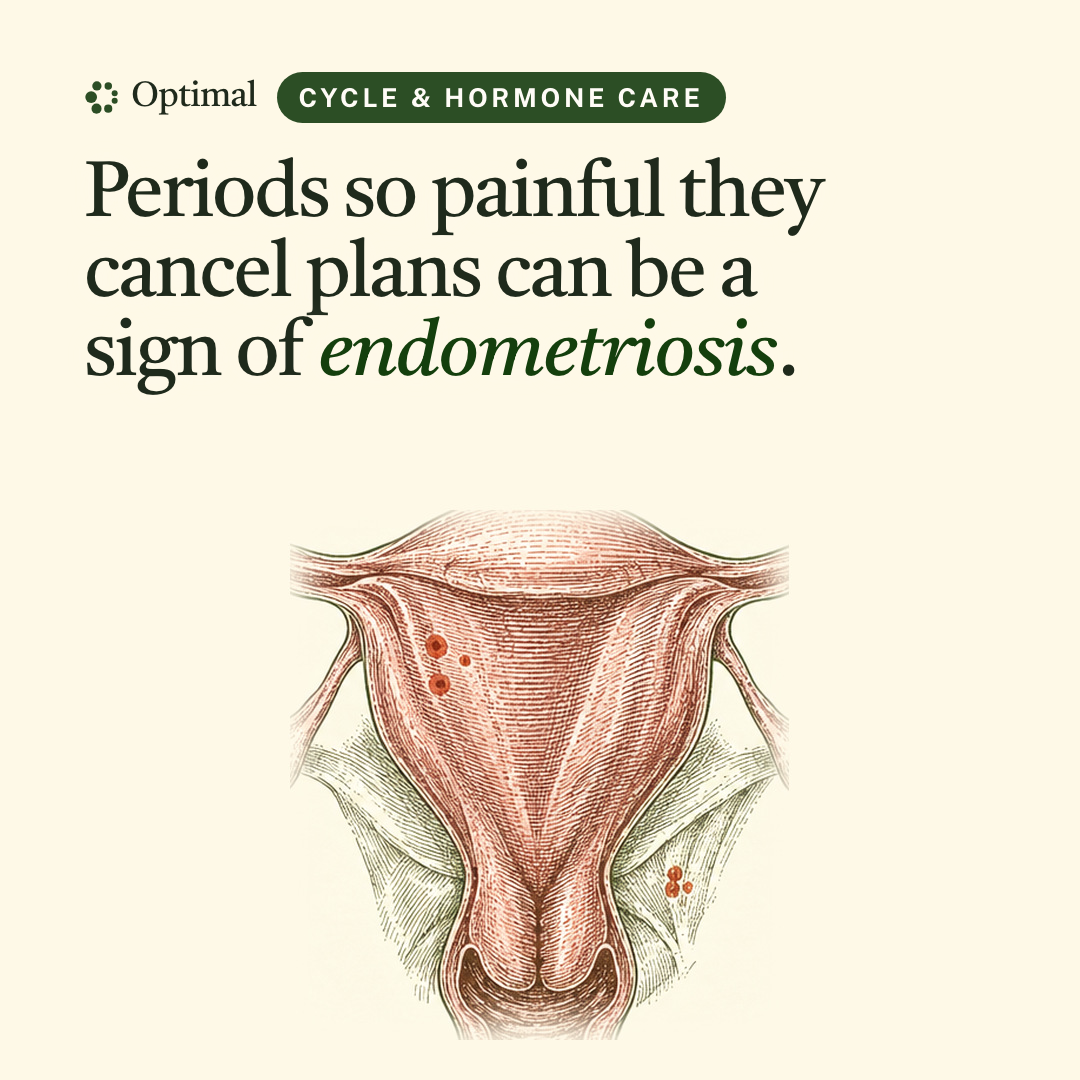
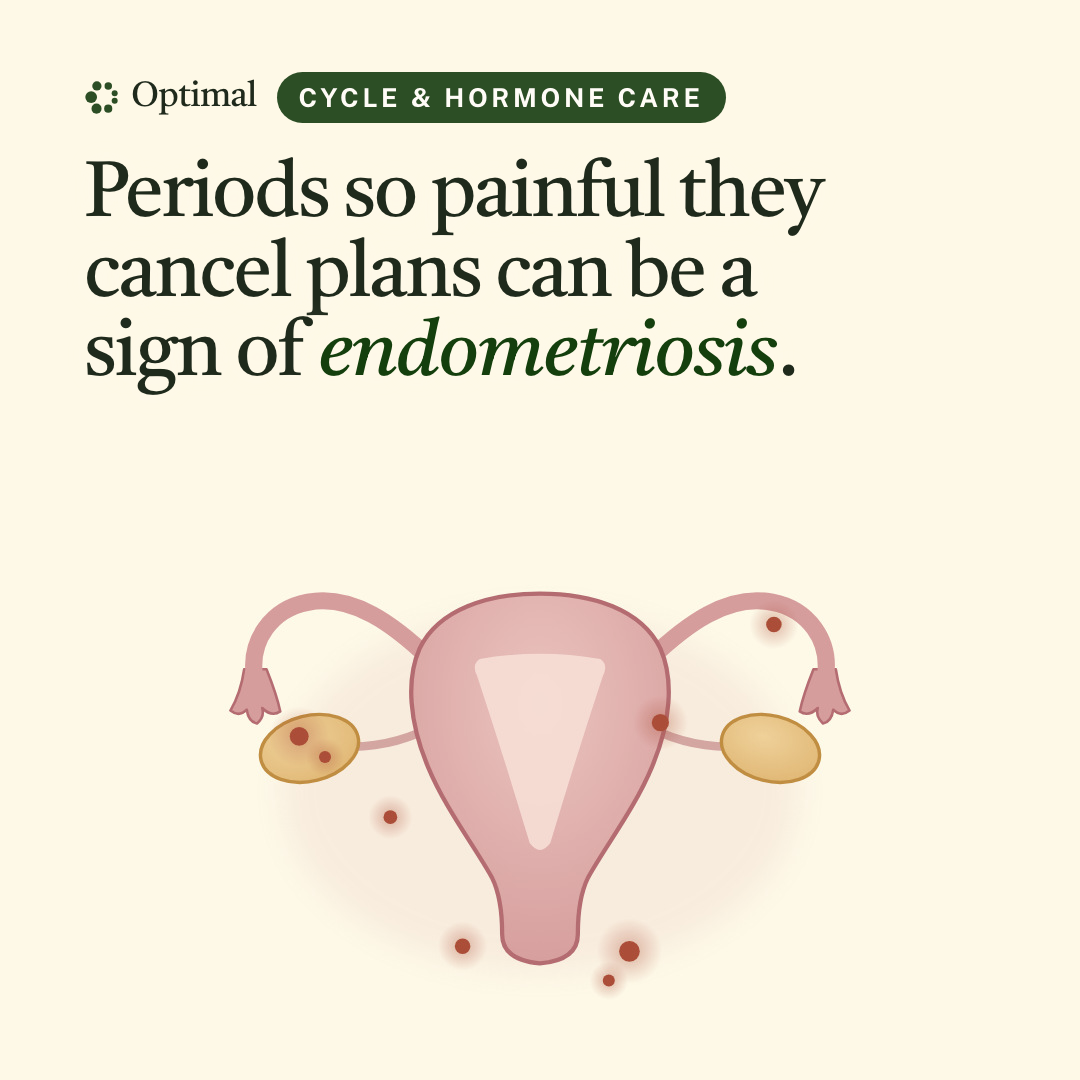
Hand-off: CE1 redrawn (zoomed out, simplified uterus)
Peter, Oct 29: the old CE1 crop was too zoomed in and anatomically
graphic. The card now shows the drawn version in all three ratios, with
an "Updated today" stamp.

Changed region(s): [[0.2139, 0.4583, 0.7944, 0.9778]]

diff --git a/index.html b/index.html
@@ -1058,11 +1058,11 @@ Book a free intro call with Cheryl, our care coordinator, to see if it&#x27;s a 
           <details class="more"><summary>Copy to paste</summary><div class="field"><div class="flabel">Headline<button class="copy" data-copy="There are options for PMDD">Copy</button></div><div class="val">There are options for PMDD</div></div><div class="field"><div class="flabel">Description<button class="copy" data-copy="NP-led · Barrie · No referral">Copy</button></div><div class="val">NP-led · Barrie · No referral</div></div><div class="field"><div class="flabel">Primary text<button class="copy" data-copy="PMDD is more than bad PMS, and there are options. We confirm the pattern with daily tracking, then your nurse practitioner builds a plan with you, from sleep and stress support to hormonal options or medication when it helps. Start with the free 3-minute Cycle Check.">Copy</button></div><textarea readonly rows="4">PMDD is more than bad PMS, and there are options. We confirm the pattern with daily tracking, then your nurse practitioner builds a plan with you, from sleep and stress support to hormonal options or medication when it helps. Start with the free 3-minute Cycle Check.</textarea></div></details>
         </div>
       </article>
-      <article class="card tile" id="CE1">
+      <article class="card tile isnew" id="CE1">
         <img src="static-ads/r9/thumbs/CE1.jpg" alt="CE1" loading="lazy">
-        <div class="tbody"><div class="khead"><span class="kcode">CE1</span><span class=kmeta>Single image ad · Endometriosis · Set 2 · endometriosis</span></div><h4>Periods so painful they cancel plans can be a sign of endometriosis.</h4>
+        <div class="tbody"><div class="khead"><span class="kcode">CE1</span><span class=kmeta>Single image ad · Endometriosis · Set 2 · endometriosis</span></div><h4>Periods so painful they cancel plans can be a sign of endometriosis.</h4><span class="stamp new">Updated today · redrawn: the whole uterus, simplified</span>
           <div class="track" data-codes="CE1"></div>
-          <div class="dls"><a class="dl primary" href="static-ads/r9/CE1_1x1.png" download><span>1:1</span><em>693 KB</em></a><a class="dl" href="static-ads/r9/CE1_9x16.png" download><span>9:16</span><em>693 KB</em></a><a class="dl" href="static-ads/r9/CE1_1-91x1.png" download><span>1.91:1</span><em>2 MB</em></a></div>
+          <div class="dls"><a class="dl primary" href="static-ads/r9/CE1_1x1.png" download><span>1:1</span><em>257 KB</em></a><a class="dl" href="static-ads/r9/CE1_9x16.png" download><span>9:16</span><em>299 KB</em></a><a class="dl" href="static-ads/r9/CE1_1-91x1.png" download><span>1.91:1</span><em>243 KB</em></a></div>
           <details class="more"><summary>Copy to paste</summary><div class="field"><div class="flabel">Headline<button class="copy" data-copy="Painful periods deserve answers">Copy</button></div><div class="val">Painful periods deserve answers</div></div><div class="field"><div class="flabel">Description<button class="copy" data-copy="Free 3-min Cycle Check · Barrie">Copy</button></div><div class="val">Free 3-min Cycle Check · Barrie</div></div><div class="field"><div class="flabel">Primary text<button class="copy" data-copy="Periods so painful they cancel plans are common, but they can be a sign of endometriosis or adenomyosis, and they deserve a proper look. Our nurse practitioner assesses pain and bleeding, checks iron, and arranges imaging or a gynecology referral when it&#x27;s needed. Start with the free 3-minute Cycle Check.">Copy</button></div><textarea readonly rows="4">Periods so painful they cancel plans are common, but they can be a sign of endometriosis or adenomyosis, and they deserve a proper look. Our nurse practitioner assesses pain and bleeding, checks iron, and arranges imaging or a gynecology referral when it&#x27;s needed. Start with the free 3-minute Cycle Check.</textarea></div></details>
         </div>
       </article>
@@ -2337,7 +2337,7 @@ Educational content only. Not medical advice.
   </section>
 </main>
 
-<footer><div class="wrap">Optimal Health · 630 Huronia Rd, Unit 5, Barrie · <a href="https://github.com/Optimal-Research-Team/optimal-ad-handoff/releases/tag/2026-10-12" target="_blank" rel="noopener">All full-quality files</a> · Zips: <a href="https://github.com/Optimal-Research-Team/optimal-ad-handoff/releases/download/2026-10-12/Optimal-static-ads-round-1_2026-10-12.zip" download>Static round 1 · 20 MB</a> <a href="https://github.com/Optimal-Research-Team/optimal-ad-handoff/releases/download/2026-10-12/Optimal-static-ads-round-2_2026-10-12.zip" download>Static round 2 · 67 MB</a> <a href="https://github.com/Optimal-Research-Team/optimal-ad-handoff/releases/download/2026-10-12/Optimal-static-ads-round-3_2026-10-12.zip" download>Static round 3 · 20 MB</a> <a href="https://github.com/Optimal-Research-Team/optimal-ad-handoff/releases/download/2026-10-12/Optimal-IV-iron-ads_2026-10-12.zip" download>IV iron round 1 · 9 MB</a> <a href="https://github.com/Optimal-Research-Team/optimal-ad-handoff/releases/download/2026-10-12/Optimal-IV-iron-ads-round-2_2026-10-12.zip" download>IV iron round 2 · 24 MB</a> <a href="https://github.com/Optimal-Research-Team/optimal-ad-handoff/releases/download/2026-10-12/Optimal-cycle-hormone-statics_2026-10-12.zip" download>Cycle &amp; Hormone statics · 24 MB</a> · Questions: Peter.</div></footer>
+<footer><div class="wrap">Optimal Health · 630 Huronia Rd, Unit 5, Barrie · <a href="https://github.com/Optimal-Research-Team/optimal-ad-handoff/releases/tag/2026-10-12" target="_blank" rel="noopener">All full-quality files</a> · Zips: <a href="https://github.com/Optimal-Research-Team/optimal-ad-handoff/releases/download/2026-10-12/Optimal-static-ads-round-1_2026-10-12.zip" download>Static round 1 · 20 MB</a> <a href="https://github.com/Optimal-Research-Team/optimal-ad-handoff/releases/download/2026-10-12/Optimal-static-ads-round-2_2026-10-12.zip" download>Static round 2 · 67 MB</a> <a href="https://github.com/Optimal-Research-Team/optimal-ad-handoff/releases/download/2026-10-12/Optimal-static-ads-round-3_2026-10-12.zip" download>Static round 3 · 20 MB</a> <a href="https://github.com/Optimal-Research-Team/optimal-ad-handoff/releases/download/2026-10-12/Optimal-IV-iron-ads_2026-10-12.zip" download>IV iron round 1 · 9 MB</a> <a href="https://github.com/Optimal-Research-Team/optimal-ad-handoff/releases/download/2026-10-12/Optimal-IV-iron-ads-round-2_2026-10-12.zip" download>IV iron round 2 · 24 MB</a> <a href="https://github.com/Optimal-Research-Team/optimal-ad-handoff/releases/download/2026-10-12/Optimal-cycle-hormone-statics_2026-10-12.zip" download>Cycle &amp; Hormone statics · 21 MB</a> · Questions: Peter.</div></footer>
 </div></div>
 
 <script id="catalog" type="application/json">[{"code": "LV1-T", "line": "3 things to know before you book.", "svc": "longevity", "fmt": "Video ad", "anchor": "LV1", "thumb": "previews/LongevityCore_Tight_9x16.jpg", "plan": "Test now #1", "added": "2026-10-12", "kind": "ad", "organic_ok": true}, {"code": "MV1-T", "line": "“I just don’t feel like myself.”", "svc": "menopause", "fmt": "Video ad", "anchor": "MV1", "thumb": "previews/MenopauseMyself_Tight_9x16.jpg", "plan": "Test now #1", "added": "2026-10-12", "kind": "ad", "organic_ok": true}, {"code": "LV2-T", "line": "A full hour. Every year.", "svc": "longevity", "fmt": "Video ad", "anchor": "LV2", "thumb": "previews/LongevityFullHour_Tight_9x16.jpg", "plan": "Next up", "added": "2026-10-12", "kind": "ad", "organic_ok": true}, {"code": "MV2-T", "line": "Menopause affects nearly every system. (Tight cut)", "svc": "menopause", "fmt": "Video ad", "anchor": "MV2", "thumb": "previews/MenoTimeToTalk_Tight_9x16.jpg", "plan": "Chantelle videos set", "added": "2026-10-20", "kind": "ad", "organic_ok": true}, {"code": "MV2-F", "line": "Menopause affects nearly every system. (Flow cut)", "svc": "menopause", "fmt": "Video ad", "anchor": "MV2", "thumb": "previews/MenoTimeToTalk_Flow_9x16.jpg", "plan": "Next up", "added": "2026-10-20", "kind": "ad", "organic_ok": true}, {"code": "MV3-T", "line": "Patients tell me the same three things. (Tight cut)", "svc": "menopause", "fmt": "Video ad", "anchor": "MV3", "thumb": "previews/MenoThreeThings_Tight_9x16.jpg", "plan": "Chantelle videos set", "added": "2026-10-20", "kind": "ad", "organic_ok": true}, {"code": "MV3-F", "line": "Patients tell me the same three things. (Flow cut)", "svc": "menopause", "fmt": "Video ad", "anchor": "MV3", "thumb": "previews/MenoThreeThings_Flow_9x16.jpg", "plan": "Next up", "added": "2026-10-20", "kind": "ad", "organic_ok": true}, {"code": "MVSL", "line": "The menopause video sales letter (2:33).", "svc": "menopause", "fmt": "Video ad", "anchor": "MVSL", "thumb": "previews/MenoVSL_Main_9x16.jpg", "plan": "Chantelle videos set", "added": "2026-10-29", "kind": "ad", "organic_ok": true}, {"code": "LV3-T", "line": "An hour with an NP who listens.", "svc": "longevity", "fmt": "Video ad", "anchor": "LV3", "thumb": "previews/LongevityOptimize_Tight_9x16.jpg", "plan": "Twin of LV2-T", "added": "2026-10-15", "kind": "ad", "organic_ok": true}, {"code": "CV1-A", "line": "3 or more of these?", "svc": "cycle", "fmt": "Video ad", "anchor": "CV1", "thumb": "previews/CycleSigns_Ad_9x16.jpg", "plan": "Set 1 · general", "added": "2026-10-22", "kind": "ad", "organic_ok": true}, {"code": "CV2-A", "line": "“That’s just part of being a woman.”", "svc": "cycle", "fmt": "Video ad", "anchor": "CV2", "thumb": "previews/CycleToldNormal_Ad_9x16.jpg", "plan": "Set 1 · general", "added": "2026-10-22", "kind": "ad", "organic_ok": true}, {"code": "CV3-A", "line": "Hormone care isn’t just for menopause.", "svc": "cycle", "fmt": "Video ad", "anchor": "CV3", "thumb": "previews/CycleProgramIntro_Ad_9x16.jpg", "plan": "Set 1 · general", "added": "2026-10-22", "kind": "ad", "organic_ok": true}, {"code": "L1", "line": "One price. Everything included.", "svc": "longevity", "fmt": "Image ad", "anchor": "L1", "thumb": "static-ads/r1/thumbs/L1.jpg", "plan": "Test now #2", "added": "2026-10-12", "kind": "ad", "organic_ok": false}, {"code": "MB1", "line": "Wide awake at 3 a.m., again.", "svc": "menopause", "fmt": "Image ad", "anchor": "MB1", "thumb": "static-ads/r2/thumbs/MB1.jpg", "plan": "Test now #2", "added": "2026-10-12", "kind": "ad", "organic_ok": false}, {"code": "L2", "line": "Keep your family doctor", "svc": "longevity", "fmt": "Image ad", "anchor": "L2", "thumb": "static-ads/r1/thumbs/L2.jpg", "plan": "Test now #3", "added": "2026-10-12", "kind": "ad", "organic_ok": false}, {"code": "MB5", "line": "Menopause care without a referral or a family doctor.", "svc": "menopause", "fmt": "Image ad", "anchor": "MB5", "thumb": "static-ads/r2/thumbs/MB5.jpg", "plan": "Test now #3", "added": "2026-10-12", "kind": "ad", "organic_ok": false}, {"code": "LB1", "line": "Your own Nurse Practitioner in Barrie, with same or next-day visits.", "svc": "longevity", "fmt": "Image ad", "anchor": "LB1", "thumb": "static-ads/r2/thumbs/LB1.jpg", "plan": "Test now #4", "added": "2026-10-12", "kind": "ad", "organic_ok": false}, {"code": "MB2", "line": "Brain fog can be perimenopause, not just a busy life.", "svc": "menopause", "fmt": "Image ad", "anchor": "MB2", "thumb": "static-ads/r2/thumbs/MB2.jpg", "plan": "Test now #4", "added": "2026-10-12", "kind": "ad", "organic_ok": false}, {"code": "LB2", "line": "Sick today, seen tomorrow, by an NP who knows you.", "svc": "longevity", "fmt": "Image ad", "anchor": "LB2", "thumb": "static-ads/r2/thumbs/LB2.jpg", "plan": "Test now #5", "added": "2026-10-12", "kind": "ad", "organic_ok": false}, {"code": "LB3", "line": "Your muscle, measured every 90 days.", "svc": "longevity", "fmt": "Image ad", "anchor": "LB3", "thumb": "static-ads/r2/thumbs/LB3.jpg", "plan": "Test now #6", "added": "2026-10-12", "kind": "ad", "organic_ok": false}, {"code": "L6", "line": "OHIP still covers your labs", "svc": "longevity", "fmt": "Image ad", "anchor": "L6", "thumb": "static-ads/r1/thumbs/L6.jpg", "plan": "Next up", "added": "2026-10-12", "kind": "ad", "organic_ok": false}, {"code": "LA2", "line": "Normal is a range, and we look at where you sit in it.", "svc": "longevity", "fmt": "Image ad", "anchor": "LA2", "thumb": "static-ads/r3/thumbs/LA2.jpg", "plan": "Next up", "added": "2026-10-13", "kind": "ad", "organic_ok": false}, {"code": "LB4", "line": "Know exactly what to do for your health this year.", "svc": "longevity", "fmt": "Image ad", "anchor": "LB4", "thumb": "static-ads/r2/thumbs/LB4.jpg", "plan": "Next up", "added": "2026-10-12", "kind": "ad", "organic_ok": false}, {"code": "M1", "line": "Perimenopause is more than hot flashes", "svc": "menopause", "fmt": "Image ad", "anchor": "M1", "thumb": "static-ads/r1/thumbs/M1.jpg", "plan": "Next up", "added": "2026-10-12", "kind": "ad", "organic_ok": false}, {"code": "M2", "line": "60 minutes", "svc": "menopause", "fmt": "Image ad", "anchor": "M2", "thumb": "static-ads/r1/thumbs/M2.jpg", "plan": "Next up", "added": "2026-10-12", "kind": "ad", "organic_ok": false}, {"code": "MA1", "line": "Midlife is a stage, and stages can be planned for.", "svc": "menopause", "fmt": "Image ad", "anchor": "MA1", "thumb": "static-ads/r3/thumbs/MA1.jpg", "plan": "Next up", "added": "2026-10-13", "kind": "ad", "organic_ok": true, "seed": {"ig": "Posted", "ig_date": "Oct 23, 2026", "ig_link": "https://www.instagram.com/p/De2kqQAFkhP/"}}, {"code": "MB3", "line": "Start menopause care in Barrie within days.", "svc": "menopause", "fmt": "Image ad", "anchor": "MB3", "thumb": "static-ads/r2/thumbs/MB3.jpg", "plan": "Next up", "added": "2026-10-12", "kind": "ad", "organic_ok": false}, {"code": "MB4", "line": "Hot flashes don't wait, and neither should you.", "svc": "menopause", "fmt": "Image ad", "anchor": "MB4", "thumb": "static-ads/r2/thumbs/MB4.jpg", "plan": "Next up", "added": "2026-10-12", "kind": "ad", "organic_ok": false}, {"code": "L3", "line": "Unwell on Monday? Seen by Tuesday.", "svc": "longevity", "fmt": "Image ad", "anchor": "L3", "thumb": "static-ads/r1/thumbs/L3.jpg", "plan": "Twin of LB2", "added": "2026-10-12", "kind": "ad", "organic_ok": false}, {"code": "L4", "line": "See what's working, every 90 days", "svc": "longevity", "fmt": "Image ad", "anchor": "L4", "thumb": "static-ads/r1/thumbs/L4.jpg", "plan": "Twin of LB3", "added": "2026-10-12", "kind": "ad", "organic_ok": false}, {"code": "L5", "line": "An hour with your NP. Every year.", "svc": "longevity", "fmt": "Image ad", "anchor": "L5", "thumb": "static-ads/r1/thumbs/L5.jpg", "plan": "Twin of LV2-T", "added": "2026-10-12", "kind": "ad", "organic_ok": false}, {"code": "LA1", "line": "Your own Nurse Practitioner for about two toonies a day.", "svc": "longevity", "fmt": "Image ad", "anchor": "LA1", "thumb": "static-ads/r3/thumbs/LA1.jpg", "plan": "Twin of LB5", "added": "2026-10-13", "kind": "ad", "organic_ok": false}, {"code": "LB5", "line": "Your own Nurse Practitioner for about $4 a day.", "svc": "longevity", "fmt": "Image ad", "anchor": "LB5", "thumb": "static-ads/r2/thumbs/LB5.jpg", "plan": "Twin of L1", "added": "2026-10-12", "kind": "ad", "organic_ok": false}, {"code": "LB6", "line": "OHIP still covers your medically necessary labs.", "svc": "longevity", "fmt": "Image ad", "anchor": "LB6", "thumb": "static-ads/r2/thumbs/LB6.jpg", "plan": "Twin of L6", "added": "2026-10-12", "kind": "ad", "organic_ok": false}, {"code": "M3", "line": "No referral. No family doctor needed.", "svc": "menopause", "fmt": "Image ad", "anchor": "M3", "thumb": "static-ads/r1/thumbs/M3.jpg", "plan": "Twin of MB5", "added": "2026-10-12", "kind": "ad", "organic_ok": false}, {"code": "M4", "line": "3 a.m. Wide awake. Again.", "svc": "menopause", "fmt": "Image ad", "anchor": "M4", "thumb": "static-ads/r1/thumbs/M4.jpg", "plan": "Twin of MB1", "added": "2026-10-12", "kind": "ad", "organic_ok": false}, {"code": "MC", "line": "Carousel, 5 cards: Menopause care in Barrie starts with a free 15-minute call.", "svc": "menopause", "fmt": "Carousel ad", "anchor": "MC", "thumb": "static-ads/r2/thumbs/MC1.jpg", "plan": "Test now #5", "added": "2026-10-12", "kind": "ad", "organic_ok": false}, {"code": "LC", "line": "Carousel, 5 cards: Here's everything $1,495 a year gets you.", "svc": "longevity", "fmt": "Carousel ad", "anchor": "LC", "thumb": "static-ads/r2/thumbs/LC1.jpg", "plan": "Next up", "added": "2026-10-12", "kind": "ad", "organic_ok": false}, {"code": "IRV1", "line": "IV iron is coming to Barrie this November.", "svc": "iron", "fmt": "Video ad", "anchor": "IRV1", "thumb": "previews/iron/IRV1_9x16.jpg", "plan": "Run now", "added": "2026-10-14", "kind": "ad", "organic_ok": false}, {"code": "IRT1", "line": "Iron pills don't work for everyone.", "svc": "iron", "fmt": "Video ad", "anchor": "IRT1", "thumb": "previews/iron/IRT1_9x16.jpg", "plan": "Test · talking head", "added": "2026-10-20", "kind": "ad", "organic_ok": true, "seed": {"ig": "Posted", "ig_date": "Oct 20, 2026", "ig_link": "https://www.instagram.com/reel/DeuqtE3ux0g/"}}, {"code": "IRT2", "line": "Low iron doesn't always look like anemia.", "svc": "iron", "fmt": "Video ad", "anchor": "IRT2", "thumb": "previews/iron/IRT2_9x16.jpg", "plan": "Test · talking head", "added": "2026-10-20", "kind": "ad", "organic_ok": true, "seed": {"ig": "Posted", "ig_date": "Oct 21, 2026", "ig_link": "https://www.instagram.com/reel/DexHYHRuWz5/"}}, {"code": "IRT3", "line": "Three things most people don't know about IV iron.", "svc": "iron", "fmt": "Video ad", "anchor": "IRT3", "thumb": "previews/iron/IRT3_9x16.jpg", "plan": "Test · talking head", "added": "2026-10-20", "kind": "ad", "organic_ok": true, "seed": {"ig": "Posted", "ig_date": "Oct 21, 2026", "ig_link": "https://www.instagram.com/reel/DexIED5u8No/"}}, {"code": "IRT4", "line": "Here's what getting IV iron actually looks like.", "svc": "iron", "fmt": "Video ad", "anchor": "IRT4", "thumb": "previews/iron/IRT4_9x16.jpg", "plan": "Test · talking head", "added": "2026-10-20", "kind": "ad", "organic_ok": true, "seed": {"ig": "Posted", "ig_date": "Oct 21, 2026", "ig_link": "https://www.instagram.com/reel/DexI9NouTrG/"}}, {"code": "IRV2", "line": "Our clinic", "svc": "iron", "fmt": "Video ad", "anchor": "IRV2", "thumb": "previews/iron/IRV2_9x16.jpg", "plan": "Test · film", "added": "2026-10-19", "kind": "ad", "organic_ok": false}, {"code": "IRV3", "line": "A little at a time", "svc": "iron", "fmt": "Video ad", "anchor": "IRV3", "thumb": "previews/iron/IRV3_9x16.jpg", "plan": "Test · film", "added": "2026-10-19", "kind": "ad", "organic_ok": false}, {"code": "IRM1", "line": "A little at a time, or as little as one visit", "svc": "iron", "fmt": "Video ad", "anchor": "IRM1", "thumb": "previews/iron/IRM1_9x16.jpg", "plan": "Test · motion", "added": "2026-10-19", "kind": "ad", "organic_ok": false}, {"code": "IRM2", "line": "What you get, start to finish.", "svc": "iron", "fmt": "Video ad", "anchor": "IRM2", "thumb": "previews/iron/IRM2_9x16.jpg", "plan": "Test · offer", "added": "2026-10-19", "kind": "ad", "organic_ok": false}, {"code": "IR1", "line": "Iron pills not working? IV iron skips the gut.", "svc": "iron", "fmt": "Image ad", "anchor": "IR1", "thumb": "static-ads/r4/thumbs/IR1.jpg", "plan": "Run now", "added": "2026-10-14", "kind": "ad", "organic_ok": false}, {"code": "IR2", "line": "Low iron doesn't always look like anemia.", "svc": "iron", "fmt": "Image ad", "anchor": "IR2", "thumb": "static-ads/r4/thumbs/IR2.jpg", "plan": "Run now", "added": "2026-10-14", "kind": "ad", "organic_ok": false}, {"code": "IR4", "line": "IV iron can refill iron stores in as little as one visit.", "svc": "iron", "fmt": "Image ad", "anchor": "IR4", "thumb": "static-ads/r5/thumbs/IR4.jpg", "plan": "Test · time", "added": "2026-10-19", "kind": "ad", "organic_ok": false}, {"code": "IR5", "line": "IV iron in Barrie, with no referral needed.", "svc": "iron", "fmt": "Image ad", "anchor": "IR5", "thumb": "static-ads/r5/thumbs/IR5.jpg", "plan": "Test · effort", "added": "2026-10-19", "kind": "ad", "organic_ok": false}, {"code": "IR6", "line": "Bloodwork before and after, so your iron is measured, not guessed.", "svc": "iron", "fmt": "Image ad", "anchor": "IR6", "thumb": "static-ads/r5/thumbs/IR6.jpg", "plan": "Test · likelihood", "added": "2026-10-19", "kind": "ad", "organic_ok": false}, {"code": "CA1", "line": "Common cycle symptoms still deserve a proper look.", "svc": "cycle", "fmt": "Image ad", "anchor": "CA1", "thumb": "static-ads/r9/thumbs/CA1.jpg", "plan": "Set 1 · general", "added": "2026-10-28", "kind": "ad", "organic_ok": false}, {"code": "CA2", "line": "Irregular, heavy, painful or missing periods deserve a proper look.", "svc": "cycle", "fmt": "Image ad", "anchor": "CA2", "thumb": "static-ads/r9/thumbs/CA2.jpg", "plan": "Set 1 · general", "added": "2026-10-28", "kind": "ad", "organic_ok": false}, {"code": "CA3", "line": "Jawline acne, thinning hair or unwanted hair growth can be hormonal.", "svc": "cycle", "fmt": "Image ad", "anchor": "CA3", "thumb": "static-ads/r9/thumbs/CA3.jpg", "plan": "Set 1 · general", "added": "2026-10-28", "kind": "ad", "organic_ok": false}, {"code": "CA4", "line": "Mood swings, sugar crashes and exhaustion can share a hormonal cause.", "svc": "cycle", "fmt": "Image ad", "anchor": "CA4", "thumb": "static-ads/r9/thumbs/CA4.jpg", "plan": "Set 1 · general", "added": "2026-10-28", "kind": "ad", "organic_ok": false}, {"code": "CA5", "line": "A free 3-minute check of your menstrual cycle shows which care fits.", "svc": "cycle", "fmt": "Image ad", "anchor": "CA5", "thumb": "static-ads/r9/thumbs/CA5.jpg", "plan": "Set 1 · general", "added": "2026-10-28", "kind": "ad", "organic_ok": false}, {"code": "CP1", "line": "PMOS, formerly called PCOS, can mean irregular periods, acne and unwanted hair.", "svc": "cycle", "fmt": "Image ad", "anchor": "CP1", "thumb": "static-ads/r9/thumbs/CP1.jpg", "plan": "Set 2 · PMOS", "added": "2026-10-28", "kind": "ad", "organic_ok": false}, {"code": "CP2", "line": "PMOS care that looks at cycles, skin, hair and metabolism together.", "svc": "cycle", "fmt": "Image ad", "anchor": "CP2", "thumb": "static-ads/r9/thumbs/CP2.jpg", "plan": "Set 2 · PMOS", "added": "2026-10-28", "kind": "ad", "organic_ok": false}, {"code": "CD1", "line": "Mood that crashes the week before a period and lifts once it starts can be PMDD.", "svc": "cycle", "fmt": "Image ad", "anchor": "CD1", "thumb": "static-ads/r9/thumbs/CD1.jpg", "plan": "Set 2 · PMDD", "added": "2026-10-28", "kind": "ad", "organic_ok": false}, {"code": "CD2", "line": "PMDD is more than bad PMS, and there are options.", "svc": "cycle", "fmt": "Image ad", "anchor": "CD2", "thumb": "static-ads/r9/thumbs/CD2.jpg", "plan": "Set 2 · PMDD", "added": "2026-10-28", "kind": "ad", "organic_ok": false}, {"code": "CE1", "line": "Periods so painful they cancel plans can be a sign of endometriosis.", "svc": "cycle", "fmt": "Image ad", "anchor": "CE1", "thumb": "static-ads/r9/thumbs/CE1.jpg", "plan": "Set 2 · endometriosis", "added": "2026-10-28", "kind": "ad", "organic_ok": false}, {"code": "CE2", "line": "Pelvic pain, heavy periods or pain with intimacy can point to endometriosis or adenomyosis.", "svc": "cycle", "fmt": "Image ad", "anchor": "CE2", "thumb": "static-ads/r9/thumbs/CE2.jpg", "plan": "Set 2 · endometriosis", "added": "2026-10-28", "kind": "ad", "organic_ok": false}, {"code": "CC", "line": "Carousel, 6 cards: Irregular periods, acne and mood swings deserve real answers.", "svc": "cycle", "fmt": "Carousel ad", "anchor": "CC", "thumb": "static-ads/r9/thumbs/CC1.jpg", "plan": "Set 1 · general", "added": "2026-10-22", "kind": "ad", "organic_ok": false}, {"code": "CG1", "line": "Cycle & hormone care (general)", "svc": "cycle", "fmt": "Google search ad", "anchor": "CG1", "thumb": "", "plan": "Google · general", "added": "2026-10-22", "kind": "google", "organic_ok": false}, {"code": "CG2", "line": "Period problems (irregular, heavy or painful)", "svc": "cycle", "fmt": "Google search ad", "anchor": "CG2", "thumb": "", "plan": "Google · general", "added": "2026-10-22", "kind": "google", "organic_ok": false}, {"code": "CG3", "line": "PMOS (formerly PCOS)", "svc": "cycle", "fmt": "Google search ad", "anchor": "CG3", "thumb": "", "plan": "Google · PMOS", "added": "2026-10-22", "kind": "google", "organic_ok": false}, {"code": "CG4", "line": "PMDD and severe PMS", "svc": "cycle", "fmt": "Google search ad", "anchor": "CG4", "thumb": "", "plan": "Google · PMDD", "added": "2026-10-22", "kind": "google", "organic_ok": false}, {"code": "CG5", "line": "Endometriosis and adenomyosis", "svc": "cycle", "fmt": "Google search ad", "anchor": "CG5", "thumb": "", "plan": "Google · endometriosis", "added": "2026-10-28", "kind": "google", "organic_ok": false}, {"code": "IRG1", "line": "IV iron (people looking for it)", "svc": "iron", "fmt": "Google search ad", "anchor": "IRG1", "thumb": "", "plan": "Google · IV iron", "added": "2026-10-28", "kind": "google", "organic_ok": false}, {"code": "IRG2", "line": "Low ferritin / iron deficiency", "svc": "iron", "fmt": "Google search ad", "anchor": "IRG2", "thumb": "", "plan": "Google · IV iron", "added": "2026-10-28", "kind": "google", "organic_ok": false}, {"code": "IRG3", "line": "Iron pills not working", "svc": "iron", "fmt": "Google search ad", "anchor": "IRG3", "thumb": "", "plan": "Google · IV iron", "added": "2026-10-28", "kind": "google", "organic_ok": false}, {"code": "IRG4", "line": "Tired all the time (symptom searches)", "svc": "iron", "fmt": "Google search ad", "anchor": "IRG4", "thumb": "", "plan": "Google · IV iron", "added": "2026-10-28", "kind": "google", "organic_ok": false}, {"code": "MI1", "line": "You're not getting stupider.", "svc": "menopause", "fmt": "Organic video", "anchor": "ig-MI1", "thumb": "files/IG_MI1_cover_4x5.jpg", "plan": "", "added": "", "kind": "organic", "organic_ok": false, "seed": {"ig": "Posted", "ig_date": "Oct 21, 2026", "ig_link": "https://www.instagram.com/reel/DexHDf2ulLf/"}}, {"code": "MI2", "line": "Your brain fog has an explanation.", "svc": "menopause", "fmt": "Organic video", "anchor": "ig-MI2", "thumb": "files/IG_MI2_cover_4x5.jpg", "plan": "", "added": "", "kind": "organic", "organic_ok": false, "seed": {"ig": "Posted", "ig_date": "Oct 26, 2026", "ig_link": "https://www.instagram.com/reel/De-Ln2wOrGr/"}}, {"code": "MI3", "line": "It is all in your head, just not the way you think.", "svc": "menopause", "fmt": "Organic video", "anchor": "ig-MI3", "thumb": "files/IG_MI3_cover_4x5.jpg", "plan": "", "added": "", "kind": "organic", "organic_ok": false, "seed": {"ig": "Posted", "ig_date": "Oct 21, 2026", "ig_link": "https://www.instagram.com/reel/DexId1Pusbd/"}}, {"code": "CB1", "line": "Meet Chantelle, PHC-NP.", "svc": "menopause", "fmt": "Organic video", "anchor": "ig-CB1", "thumb": "files/IG_CB1_cover_4x5.jpg", "plan": "", "added": "", "kind": "organic", "organic_ok": false, "seed": {"ig": "Posted", "ig_date": "Oct 21, 2026", "ig_link": "https://www.instagram.com/reel/DexGHdyuXk0/"}}, {"code": "CB2", "line": "4 things I tell every new patient.", "svc": "menopause", "fmt": "Organic video", "anchor": "ig-CB2", "thumb": "files/IG_CB2_cover_4x5.jpg", "plan": "", "added": "", "kind": "organic", "organic_ok": false, "seed": {"ig": "Posted", "ig_date": "Oct 21, 2026", "ig_link": "https://www.instagram.com/reel/DexGpqDuUb-/"}}, {"code": "RB1", "line": "Meet Rubeana, our Clinical Director.", "svc": "clinic", "fmt": "Organic video", "anchor": "ig-RB1", "thumb": "files/IG_RB1_cover_4x5.jpg", "plan": "", "added": "", "kind": "organic", "organic_ok": false, "seed": {"ig": "Posted", "ig_date": "Oct 15, 2026"}}, {"code": "CI1", "line": "Cholesterol, explained: HDL, LDL, Lp(a) and ApoB.", "svc": "clinic", "fmt": "Organic video", "anchor": "ig-CI1", "thumb": "files/IG_CI1_cover_4x5.jpg", "plan": "", "added": "", "kind": "organic", "organic_ok": false, "seed": {"ig": "Posted", "ig_date": "Oct 15, 2026"}}]</script>

diff --git a/build.py b/build.py
@@ -449,6 +449,7 @@ CHANGED["MI2"] = (D26, "new cover: Chantelle smiling, not mid-word")
 CHANGED["CC"] = (D28, "redone as 6 cards; card 1 now names the symptoms")
 CHANGED["CA5"] = (D28, "says \u201cmenstrual cycle\u201d")
 CHANGED["CE2"] = (D28, "\u201cpain with intimacy\u201d")
+CHANGED["CE1"] = (D29, "redrawn: the whole uterus, simplified")   # Peter: the crop was too zoomed in and graphic
 CHANGED.update({new: (D28, f"renamed from {old}") for old, new in RENAME.items()})
 CHANGED.update({g: (D28, "rewritten as five ad groups") for g in ("CG1", "CG2", "CG3", "CG4")})
 ADDED.update({g: D28 for g in ("IRG1", "IRG2", "IRG3", "IRG4")})
